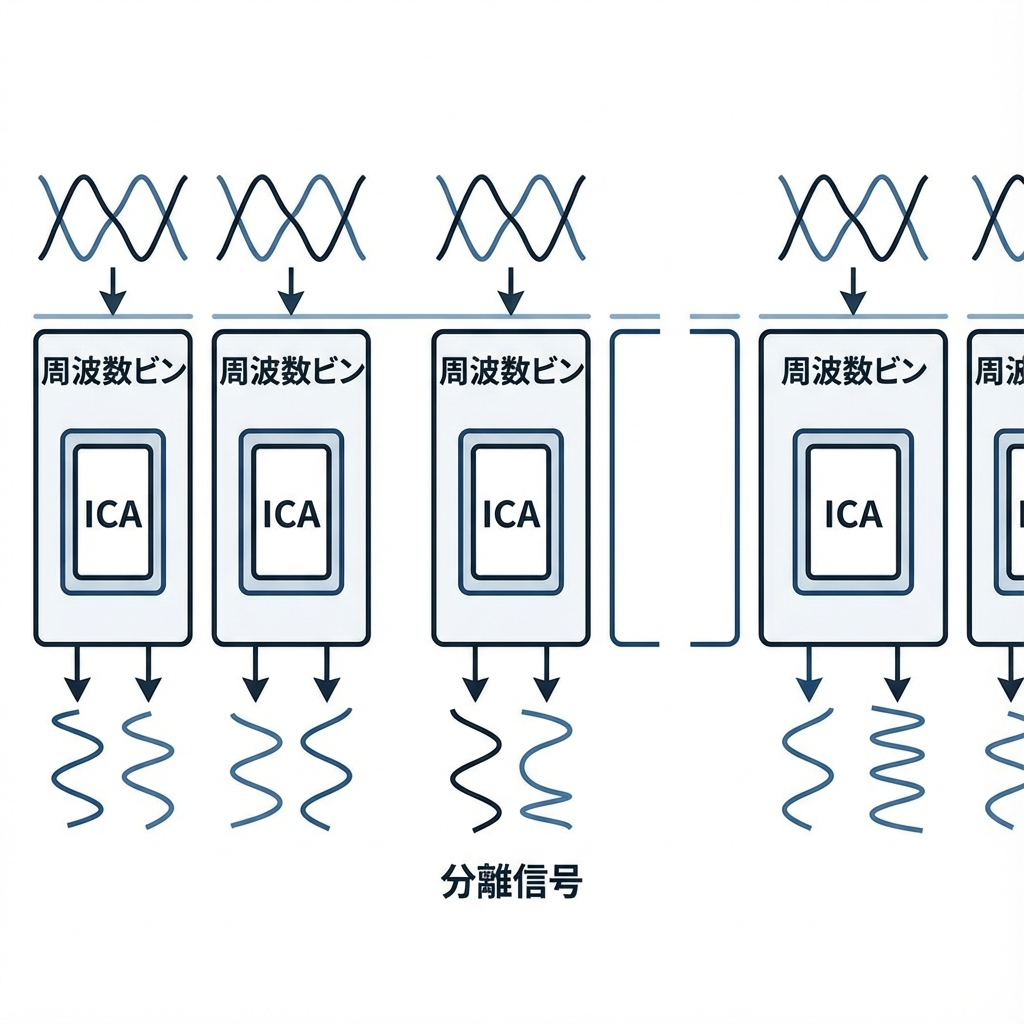
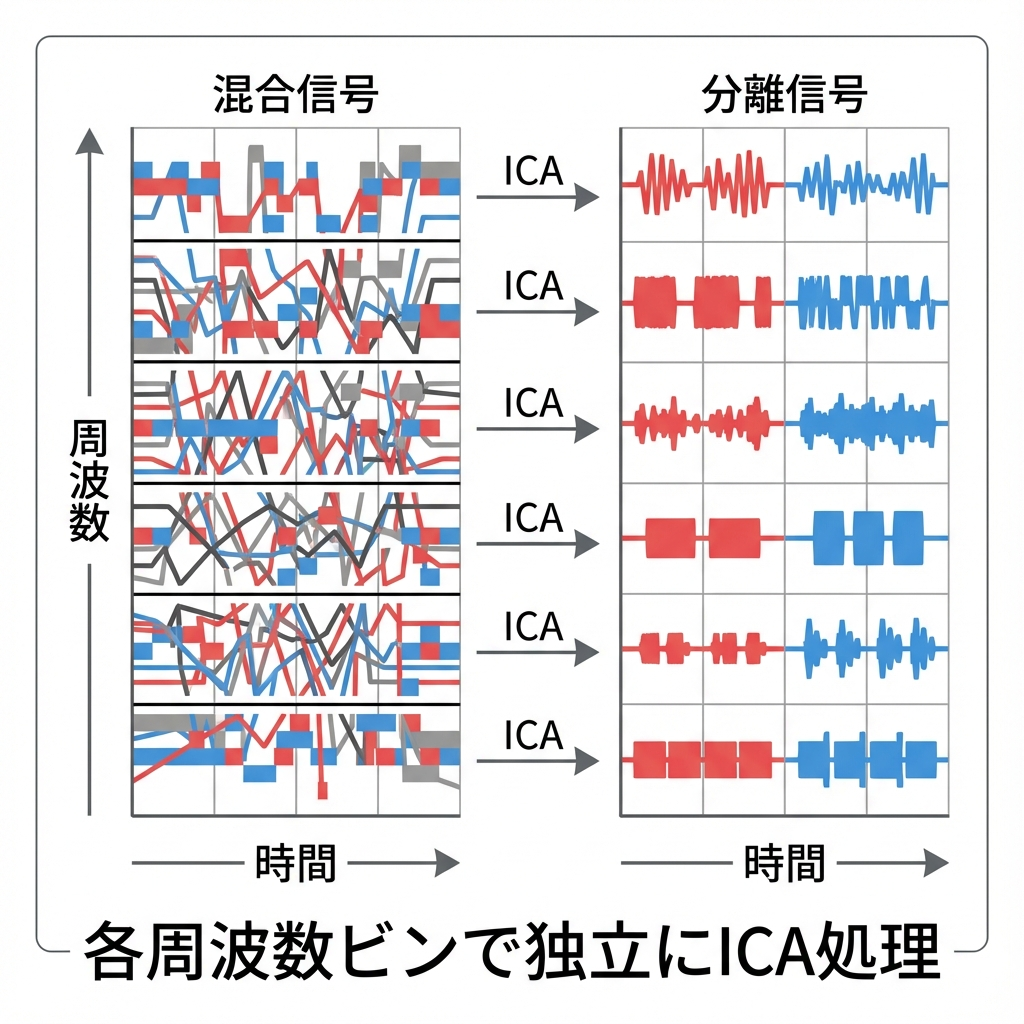
Fix(content): Improve ICA article - regenerate diagrams, fix mobile table

diff --git a/content/blog/ica-iva-noise-separation.md b/content/blog/ica-iva-noise-separation.md
@@ -157,12 +157,21 @@ s(t) = [s_1(t), s_2(t), ..., s_F(t)]
 
 ICAとIVAの主な違いを比較すると：
 
-| 特徴 | ICA | IVA |
-|------|-----|-----|
-| 基本原理 | 統計的独立性に基づく | 周波数間の依存性を考慮した統計的独立性 |
-| パーミュテーション問題 | 発生する | 解決する |
-| 計算コスト | 低い | やや高い |
-| 分離性能（音声） | 基本レベル | 向上 |
+### 基本原理
+- **ICA**: 統計的独立性に基づく
+- **IVA**: 周波数間の依存性を考慮した統計的独立性
+
+### パーミュテーション問題
+- **ICA**: 発生する（後処理が必要）
+- **IVA**: 自動的に解決する
+
+### 計算コスト
+- **ICA**: 低い
+- **IVA**: やや高い
+
+### 分離性能（音声）
+- **ICA**: 基本レベル
+- **IVA**: 向上
 
 ### 典型的な処理フロー
 
